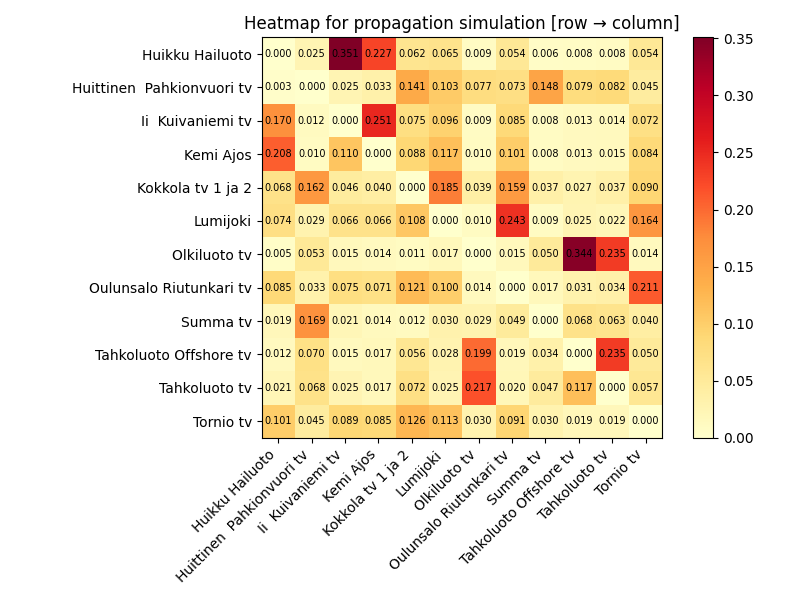
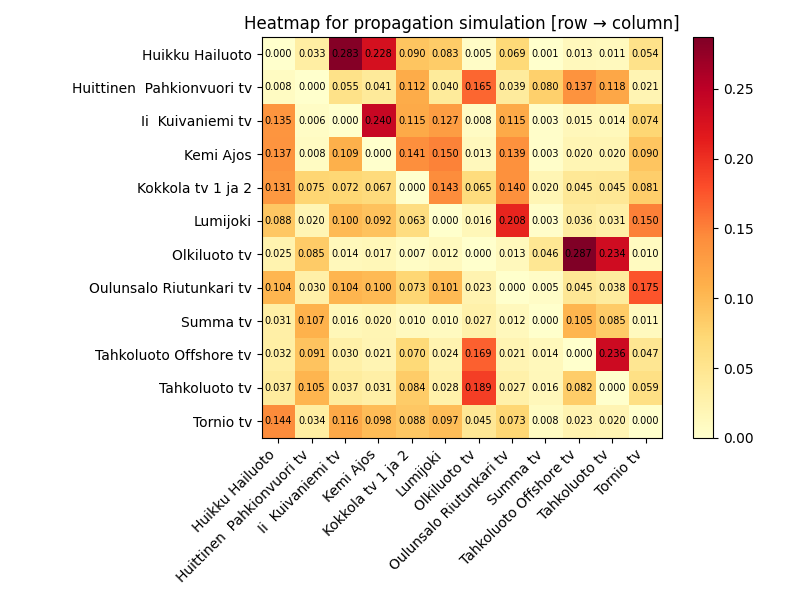
Fixes on task 13 through 15

diff --git a/supplementary.py b/supplementary.py
@@ -65,12 +65,17 @@ def display_heatmap(matrix, risk_score, title, save=False, save_path=None, displ
     
     if display:
         plt.show()
-        
+
+def get_random_choice(risk_score):
+    sum_of_risk_scores = sum(risk_score["risk_score_model"])
+    probabilities = [loc / sum_of_risk_scores for loc in risk_score["risk_score_model"]]
+    return np.random.choice(list(risk_score["location"]), p=probabilities)
+
 
 def one_simulation(queue_propagation, risk_score, failed, adjacency_list, prop_matrix,
                    node_id, queue_independent=None, propagation=True):
     """
-    Function for on simulation. One simulation tries if turbine fails based on probability. 
+    Function for one simulation. One simulation tries if turbine fails based on probability. 
     If catches failure in a turbine, add that turbine to failed list and add adjacent nodes
     to propagation queue. 
 
@@ -98,6 +103,7 @@ def one_simulation(queue_propagation, risk_score, failed, adjacency_list, prop_m
         for node in adjacency_list[test]:
             if node not in failed:
                 queue_propagation.append((test, node))
+
         return
 
 
@@ -142,6 +148,14 @@ def simulate_propagation(risk_score, prop_matrix, adjacency_list, node_id, n_sim
 
             one_simulation(queue_propagation, risk_score, failed, adjacency_list,
                            prop_matrix, node_id, queue_independent, propagation=False)
+            
+            #Making sure that there is at least one failure
+            if len(queue_independent) == 0 and len(failed) == 0:
+                random_choice = get_random_choice(risk_score)
+                failed.append(random_choice)
+                for node in adjacency_list[random_choice]:
+                    if node not in failed:
+                        queue_propagation.append((random_choice, node))
 
         sets.append(failed)
 
@@ -198,7 +212,6 @@ def plot_failure_rates(risk_score, failure_rate):
     ax.set_xticklabels([locations[i] for i in sorted_idx], rotation=45, ha="right")
     ax.set_ylabel("Failure Rate")
     ax.set_title("Per-Turbine Failure Rate Across Simulations")
-    ax.legend()
     plt.tight_layout()
     plt.show()
     
@@ -269,10 +282,10 @@ def apply_intervention(risk_score, prop_matrix, strategy, node_id, edge_lookup, 
 
     if strategy == "monitor":
         for target in targets:
-            idx = node_id[target]
-            risk_copy["failure_probability"][idx] *= factor
+            risk_copy.loc[risk_copy["location"] == target, "risk_score_model"] *= factor
 
         prop_matrix_copy = create_propagation_matrix(edge_lookup, risk_copy)
+        display_heatmap(prop_matrix_copy, risk_score, "MOI", display=True)
 
 
     elif strategy == "reinforce_edges":
@@ -286,7 +299,7 @@ def apply_intervention(risk_score, prop_matrix, strategy, node_id, edge_lookup, 
             idx = node_id[target]
             prop_matrix_copy[idx, :] = 0
             prop_matrix_copy[:, idx] = 0
-            risk_copy["failure_probability"][idx] = 0
+            risk_copy.loc[risk_copy["location"] == target, "failure_probability"] = 0
 
 
     return risk_copy, prop_matrix_copy
@@ -308,7 +321,7 @@ def get_critical_nodes(G, risk_score):
         "betweenness_centrality": list(bet_cent.values())
     })
 
-    df_ranked = df_centrality.sort_values(by="betweenness_centrality", ascending=False)
+    #df_ranked = df_centrality.sort_values(by="betweenness_centrality", ascending=False)
 
     df_analysis = df_centrality.merge(risk_score[["location","risk_score_model"]],on="location")
 
@@ -337,17 +350,18 @@ def compare_strategies(risk_score, prop_matrix, adjacency_list, node_id, risk_no
         sizes = [len(s) for s in res]
         summary[name] = {
             "mean_failures": np.mean(sizes),
-            "p_zero_failures": np.mean([s == 0 for s in sizes]),
-            "p_many_failures": np.mean([s > 3 for s in sizes]),
+            "p_zero_propagations": np.mean([s != 1 for s in sizes]),
+            "p_many_failures": np.mean([s > 4 for s in sizes]),
             "results": res
         }
-    
+
     return summary
 
-def plot_comparison(summary):
+
+def plot_comparison(summary, save_path):
     strategies = [s for s in summary if s != "baseline"]
-    metrics = ["mean_failures", "p_zero_failures", "p_many_failures"]
-    labels = ["Mean Failures", "P(Zero Failures)", "P(Failures > 3)"]
+    metrics = ["mean_failures", "p_zero_propagations", "p_many_failures"]
+    labels = ["Mean Failures", "P(Zero Propagations)", "P(Failures > 4)"]
 
     fig, axes = plt.subplots(1, 3, figsize=(14, 5))
 
@@ -365,5 +379,6 @@ def plot_comparison(summary):
 
     plt.suptitle("Comparison of strategies (improvements based on baseline)", fontsize=14)
     plt.tight_layout()
+    plt.savefig(save_path)
     plt.show()
 

diff --git a/probability.py b/probability.py
@@ -13,6 +13,7 @@ import supplementary as supp
 
 #-----------------Task 12-----------------------------------
 plt.close("all")
+rng = np.random.default_rng(50)
 
 CUT_IN_THRESHOLD = 3
 CUT_OUT_THRESHOLD = 25
@@ -31,11 +32,11 @@ for file in os.listdir(DIRECTORY):
         gust_speeds.append(speed)
 
 # Probability for turbine failure based on too big of a gust
-k, loc, scale = scipy.stats.weibull_min.fit(gust_speeds, floc=0)
-overall_failure_probability = scipy.stats.weibull_min.cdf(CUT_IN_THRESHOLD, k, loc=0,
-                                scale=scale) + (1 - scipy.stats.weibull_min.cdf(
-                                CUT_OUT_THRESHOLD, k, loc=0, scale=scale))
-#print(overall_failure_probability)
+# The reason it is approximated this way is that we have no data of previous
+# failures and this is the only plausible way of approximating failure that I came up with. 
+k, weibull_loc, scale = scipy.stats.weibull_min.fit(gust_speeds, floc=0)
+overall_failure_probability = 1 - scipy.stats.weibull_min.cdf(CUT_OUT_THRESHOLD,
+                                                              k, loc=0, scale=scale)
 
 risk_scores = pd.read_csv("combined.csv", usecols=["location", "risk_score_model"])
 #Adding failure probability for each turbine
@@ -52,7 +53,7 @@ for _, row in list_of_edges.iterrows():
 propagation_matrix = supp.create_propagation_matrix(edge_lookup, risk_scores)
 
 
-supp.display_heatmap(propagation_matrix, risk_scores, "Propagation Matrix [i → j]",
+supp.display_heatmap(propagation_matrix, risk_scores, "Propagation Matrix [row → column]",
                  save=True, save_path="plots_and_fiqures/propagation_matrix.png", display=True)
 #-----------------Task 12-----------------------------------
 adj_list = {}
@@ -73,9 +74,8 @@ for source, target in edge_lookup.keys():
 results = supp.simulate_propagation(risk_scores, propagation_matrix, adj_list, node_ids)
 
 sizes = [len(s) for s in results]
-#print(f"Mean failures per simulation: {np.mean(sizes):.2f}")
-#print(f"P(zero failures): {np.mean([s == 0 for s in sizes]):.3f}")
-#print(f"P(propagation > 3): {np.mean([s > 3 for s in sizes]):.3f}")
+print(f"Mean failures per simulation: {np.mean(sizes):.2f}")
+print(f"P(propagation > 3): {np.mean([s > 3 for s in sizes]):.3f}")
 
 # Per-turbine failure rate
 all_locations = list(risk_scores["location"])
@@ -92,9 +92,8 @@ heatmap_for_propagation = supp.transition_heatmap(results, risk_scores)
 supp.display_heatmap(heatmap_for_propagation, risk_scores,
                 "Heatmap for propagation simulation [row → column]",
                 save=True, save_path="plots_and_fiqures/simulation_propagation.png", display=True)
-RANDOM_INDEX = int(np.random.randint(10000))
 
-supp.plot_propagation(results[RANDOM_INDEX], risk_scores, G, node_ids)
+supp.plot_propagation(results[rng.integers(10000)], risk_scores, G, node_ids)
 
 #supp.plot_failure_rates(risk_scores, failure_rates)
 
@@ -105,7 +104,7 @@ critical_nodes = supp.get_critical_nodes(G, risk_scores)
 print("High betweenness centrality nodes: ", top_betweenness_nodes)
 print("High risk nodes: ", high_risk_nodes)
 print("Critical nodes: ", critical_nodes)
-print(risk_scores)
+#print(risk_scores)
 
 #-----------------Task 14-----------------------------------
 
@@ -116,6 +115,6 @@ summary_of_strategies = supp.compare_strategies(risk_scores, propagation_matrix,
                                                 node_ids, high_risk_nodes, critical_nodes, edge_lookup)
 
 
-supp.plot_comparison(summary_of_strategies)
+supp.plot_comparison(summary_of_strategies, "plots_and_fiqures/intervention_improvements.png")
 
 #-----------------Task 15-----------------------------------
